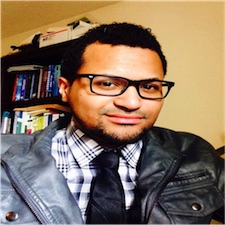
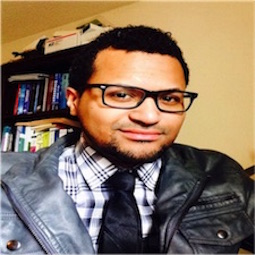
updated profile photos, added instagram
updated profile photos, added instagram url

diff --git a/_includes/footer.html b/_includes/footer.html
@@ -2,7 +2,7 @@
         <div class="container">
             <div class="row">
                 <div class="col-md-4">
-                    <span class="copyright">Copyright &copy; {{ site.title }} 2014</span>
+                    <span class="copyright">Copyright &copy; {{ site.title }} 2015</span>
                 </div>
                 <div class="col-md-4">
                     <ul class="list-inline social-buttons">
